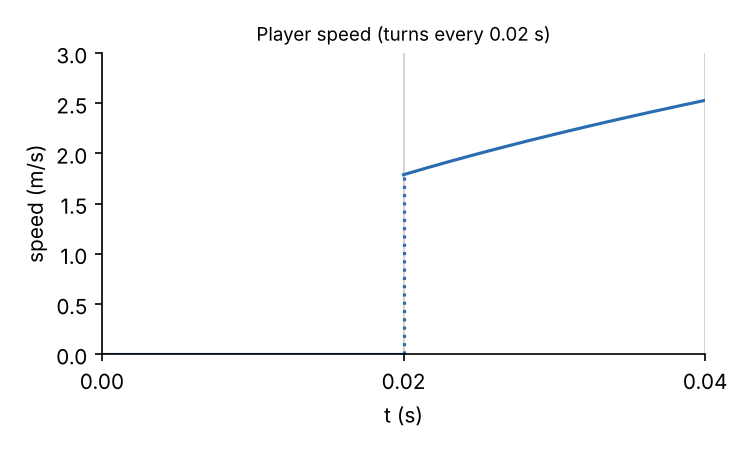
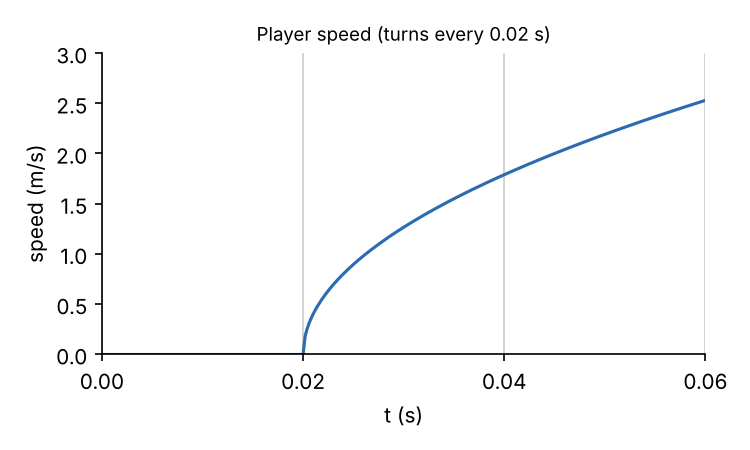
3v1: movement releases at constant power from rest; player re-releases at t=0.04
Claude-Session: https://claude.ai/code/session_01RGpbufgYSJT2n4v1xECmZw

diff --git a/docs/combat/plots/player_speed_3v1.py b/docs/combat/plots/player_speed_3v1.py
@@ -1,15 +1,14 @@
-"""Player speed vs time, 3v1 encounter (launch at t=0.02, constant power after)."""
+"""Player speed vs time, 3v1 encounter (constant power from rest from t=0.02)."""
 import numpy as np, matplotlib; matplotlib.use("Agg")
 import matplotlib.pyplot as plt
-m, P, E0, t0, t1 = 75, 6000, 120, 0.02, 0.04
+m, P, E0, t0, t1 = 75, 6000, 0, 0.02, 0.06
 t = np.linspace(t0, t1, 200)
 v = np.sqrt(2 * (E0 + P * (t - t0)) / m)
 fig, ax = plt.subplots(figsize=(5, 3), dpi=150)
 ax.plot([0, t0], [0, 0], color="#2b6cb0")
-ax.plot([t0, t0], [0, v[0]], color="#2b6cb0", ls=":")
 ax.plot(t, v, color="#2b6cb0")
-for tt in (0, .02, .04): ax.axvline(tt, color="#ccc", lw=.8, zorder=0)
+for tt in (0, .02, .04, .06): ax.axvline(tt, color="#ccc", lw=.8, zorder=0)
 ax.set_xlabel("t (s)"); ax.set_ylabel("speed (m/s)"); ax.set_xlim(0, t1); ax.set_ylim(0, 3)
-ax.set_xticks([0, .02, .04]); ax.set_title("Player speed (turns every 0.02 s)", fontsize=9)
+ax.set_xticks([0, .02, .04, .06]); ax.set_title("Player speed (turns every 0.02 s)", fontsize=9)
 for s in ("top", "right"): ax.spines[s].set_visible(False)
 fig.tight_layout(); fig.savefig("docs/combat/plots/player_speed_3v1.png")

diff --git a/docs/combat/frames/render_3v1.py b/docs/combat/frames/render_3v1.py
@@ -2,8 +2,8 @@
 import sys, matplotlib; matplotlib.use("Agg")
 import matplotlib.pyplot as plt
 from matplotlib.patches import Circle
-t, STORE, CAP, P, DT = 0.04, 0, 3000, 0, 0.02  # P into movement, store not filling
-STATE = [("Player", 0.04, 0, 2.53, 0, "#2b6cb0"), ("1", 3.0, 0, 0, 0, "#c05621"),
+t, STORE, CAP, P, DT = 0.06, 120, 3000, 6000, 0.02
+STATE = [("Player", 0.068, 0, 2.53, 0, "#2b6cb0"), ("1", 3.0, 0, 0, 0, "#c05621"),
          ("2", 2.30, 1.93, 0, 0, "#c05621"), ("3", 2.30, -1.93, 0, 0, "#c05621")]
 fig = plt.figure(figsize=(6.6, 4.4), dpi=150)
 bx = fig.add_axes([0.08, 0.2, 0.04, 0.6]); ax = fig.add_axes([0.16, 0.08, 0.82, 0.84])

diff --git a/docs/combat/encounter_player_vs_3tdtfb.md b/docs/combat/encounter_player_vs_3tdtfb.md
@@ -28,17 +28,26 @@ TDTFB-1, -2, -3: no action (store empty); each holds position.
 | TDTFB-3 | (2.30, −1.93) | (0, 0) | 0 J | 0 J | 0 J |
 
 ### t = 0.02 s — player's turn
-Action: launches toward TDTFB-1 (+x) with a constant-power profile: the 120 J
-stored is released as initial KE, then P = 6000 W goes into forward motion
-(store does not fill while P drives movement). KE(τ) = 120 J + 6000 W·τ.
-Projection if unchanged: x = 0.73 m, 5.7 m/s, 1200 J at t = 0.2 s; reaches
-body contact with TDTFB-1 (x = 2.55 m) at t ≈ 0.45 s, 8.5 m/s, ~2700 J.
+Action: releases the 120 J stored into forward motion toward TDTFB-1 (+x),
+delivered at constant power (6000 W) from rest over 0.02–0.04 s. The store
+keeps refilling at 6000 W during the movement.
 
-### t = 0.04 s — player's turn (pending)
+### t = 0.04 s — player's turn
+Action: releases the 120 J saved during the last movement into more forward
+motion, again at constant power, over 0.04–0.06 s.
 
 | Entity | Position (x, y) | Velocity | KE | Stored | Absorbed |
 |---|---|---|---|---|---|
-| Player | (0.04, 0.00) | (2.53, 0) | 240 J | 0 J | 0 J |
+| Player | (0.024, 0.00) | (1.79, 0) | 120 J | 120 J | 0 J |
 | TDTFB-1 | (3.00, 0.00) | (0, 0) | 0 J | 24 J | 0 J |
 | TDTFB-2 | (2.30, 1.93) | (0, 0) | 0 J | 24 J | 0 J |
 | TDTFB-3 | (2.30, −1.93) | (0, 0) | 0 J | 24 J | 0 J |
+
+### t = 0.06 s — player's turn (pending)
+
+| Entity | Position (x, y) | Velocity | KE | Stored | Absorbed |
+|---|---|---|---|---|---|
+| Player | (0.068, 0.00) | (2.53, 0) | 240 J | 120 J | 0 J |
+| TDTFB-1 | (3.00, 0.00) | (0, 0) | 0 J | 36 J | 0 J |
+| TDTFB-2 | (2.30, 1.93) | (0, 0) | 0 J | 36 J | 0 J |
+| TDTFB-3 | (2.30, −1.93) | (0, 0) | 0 J | 36 J | 0 J |

diff --git a/docs/combat/rules.md b/docs/combat/rules.md
@@ -65,5 +65,9 @@ foot+shin 4.3 kg, whole leg 12 kg, head 6 kg, whole body 75 kg.
   ⅓ of the 12 kg leg (swing correction) = 4 kg.
 - Collision (tentative): damage = ½·μ·v_rel²·(1 − e²), μ = m_limb·M/(m_limb+M),
   e = 0.2; target knockback Δv = (1+e)·m_limb·v_rel/(m_limb+M).
+- Movement releases are delivered at constant power P (duration E_r/P),
+  not instantaneously; the store keeps refilling during the movement. With a
+  store saved over one turn, this gives continuous constant-power motion with
+  a one-turn lag.
 - Entities whose polls coincide decide simultaneously, without seeing each
   other's choices for that instant.
